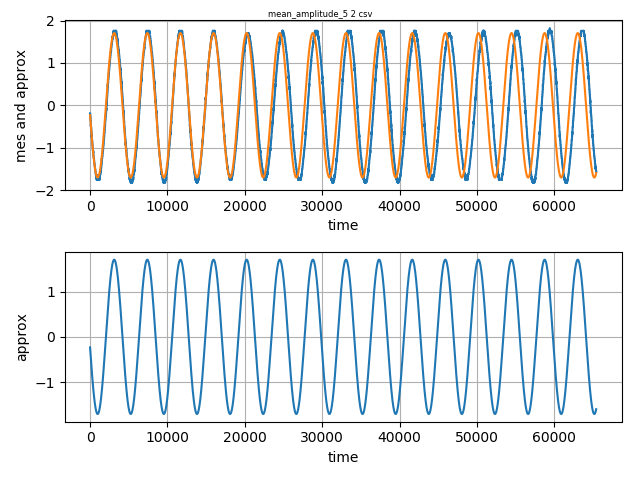
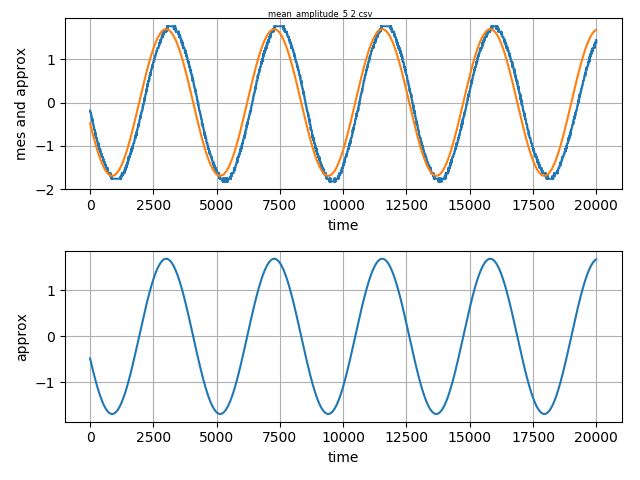
gui ready

Changed region(s): [[0.0, 0.0312, 0.9688, 0.4375], [0.0938, 0.5, 0.9688, 0.9375]]

diff --git a/src/client.py b/src/client.py
@@ -9,36 +9,73 @@ loadedFilename = ""
 
 window = Tk()
 window.title("Sinus Drive App")
-window.geometry('150x80')
+window.geometry('300x150')
 
 lbl = Label(window, text="Press load csv file")
 lbl.grid(column=0, columnspan=2, row=0)
+
+var = IntVar()
+
+c = Checkbutton(window, text="Range", variable=var)
+c.grid(column=0, columnspan=2, row=2)
+
+
+
+sl = Label(window, text="Start")
+sl.grid(column=0, row=3)
+
+fl = Label(window, text="Finish")
+fl.grid(column=1, row=3)
+
+start = Entry(window)
+start.grid(column=0, row=4)
+
+start.delete(0, END)
+start.insert(0, "0")
+
+end = Entry(window)
+end.grid(column=1, row=4)
+
+end.delete(0, END)
+end.insert(0, "100000")
+
 
 def load():
     global resSQD
     global resMA
     global loadedFilename
-
+    global var
 
     filename = filedialog.askopenfilename(initialdir=".", title="Select file",
-                                            filetypes=(("csv", "*.csv"), ("all files", "*.*")))
+                                          filetypes=(("csv", "*.csv"), ("all files", "*.*")))
 
     lbl.configure(text="Calculation in work... wait")
     lbl.update()
     loadedFilename = filename.split('/')[-1]
 
-    resSQD = getSQD(filename)
-    resMA = getMeanAmp(filename)
+    if var:
+        print(int(start.get()), int(end.get()))
+        resMA = getMeanAmp(filename, int(start.get()), int(end.get()))
+        resSQD = getSQD(filename, int(start.get()), int(end.get()))
+    else:
+        resMA = getMeanAmp(filename)
+        resSQD = getSQD(filename)
+
+    print("calculations ready")
     lbl.configure(text="Calculation ready")
     lbl.update()
+
 
 def save():
     savefolder = filedialog.askdirectory(initialdir=".", title="Select folder")
     print(savefolder)
-    wrtePlot(resMA[0], resMA[1], resMA[2], savefolder +"/mean_amplitude_"+ loadedFilename.split('.')[0] + '.png', "mean_amplitude_" + loadedFilename.split('.')[0])
-    wrtePlot(resSQD[0], resSQD[1], resSQD[2], savefolder +"/sqd_"+ loadedFilename.split('.')[0] + '.png', "sqd_" + loadedFilename.split('.')[0])
+    wrtePlot(resMA[0], resMA[1], resMA[2], savefolder + "/mean_amplitude_" + loadedFilename.split('.')[0] + '.png',
+             "mean_amplitude_" + loadedFilename.split('.')[0])
+    wrtePlot(resSQD[0], resSQD[1], resSQD[2], savefolder + "/sqd_" + loadedFilename.split('.')[0] + '.png',
+             "sqd_" + loadedFilename.split('.')[0])
 
     lbl.configure(text="images are saved")
+
 
 btn = Button(window, text="Load", command=load)
 btn.grid(column=0, row=1)

diff --git a/src/test.py b/src/test.py
@@ -2,13 +2,13 @@ from src.driveSinus import getSQD, wrtePlot, getMeanAmp
 
 
 def getResult(source):
-    res = getSQD('../drive_data/' + source + '.csv', 20000, 40000)
+    res = getSQD('../drive_data/' + source + '.csv', 0, 20000)
     wrtePlot(res[0], res[1], res[2], '../imgs/sqd_' + source + '.png', "sqd_" + source)
-    res = getMeanAmp('../drive_data/' + source + '.csv', 20000, 40000)
+    res = getMeanAmp('../drive_data/' + source + '.csv', 0, 20000)
     wrtePlot(res[0], res[1], res[2], '../imgs/mean_amplitude_' + source + '.png', "mean_amplitude_" + source)
 
 
-getResult("4-1 CSV")
-# getResult("4-2 CSV")
-# getResult("5 2 csv")
+#getResult("4-1 CSV")
+#getResult("4-2 CSV")
+getResult("5 2 csv")
 # getResult("6")
